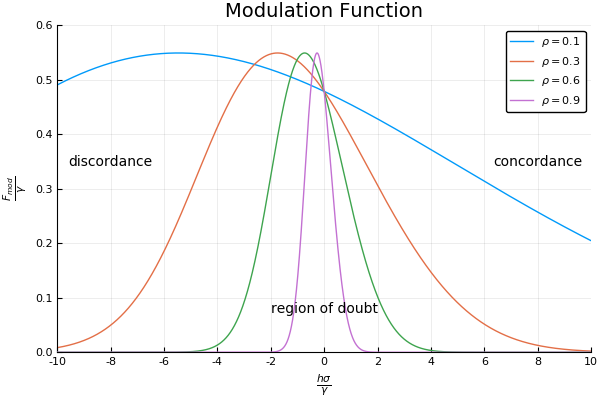
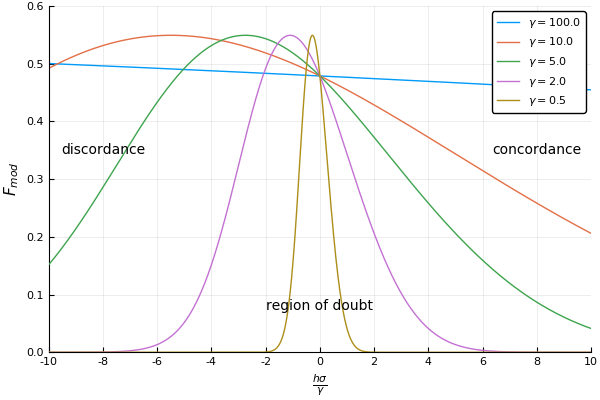
Improve fig:modfunc and modfunc.jl

diff --git a/source/41_mfresults.md b/source/41_mfresults.md
@@ -15,7 +15,7 @@ It can be seen that there is a phase transition depending on the parameters $\be
 
 [@fig:phasem] shows that, for fixed $\beta$, the phase border can be crossed by increasing the value of $\gamma$. This seems paradoxical, since larger $\gamma$ is associated to a larger norm of the covariance matrix (that is, a higher uncertainty in [@eq:multigaussian]). The explanation for this comes from the fact that the gradient of the evidence (also called _modulation function_ $F_{mod}$), which determines the dynamics in [@eq:upstudentfinal], increases in magnitude with $\gamma$ when both agents concur. This is shown in [@fig:modfunc]
 
-![Modulation function/gradient of the evidence for different values of $\gamma$. IMPROVE THIS! Change $\rho \to \gamma$](images/modfunc.png){#fig:modfunc width='65%'}
+![Modulation function/gradient of the evidence for different values of $\gamma$. The noise $\varepsilon$ is fixed at $0.2$, but changing to other values between $0.$ and $0.5$ does not change qualitatively the figure](images/modfunc.png){#fig:modfunc width='75%'}
 
 High $\gamma$ agents rely not only on the novelty brought by disagreement but also learn from corroborating examples. For low $\gamma$, agents learn primordially from the novelty of disagreement. Therefore high $\gamma$ agents will keep on learning even after there is agreement on an issue, resulting in a more ordered society. This same behavior was found in previous works [see e.g. @Alves2015;@Caticha2015;@Alves2016]
 
